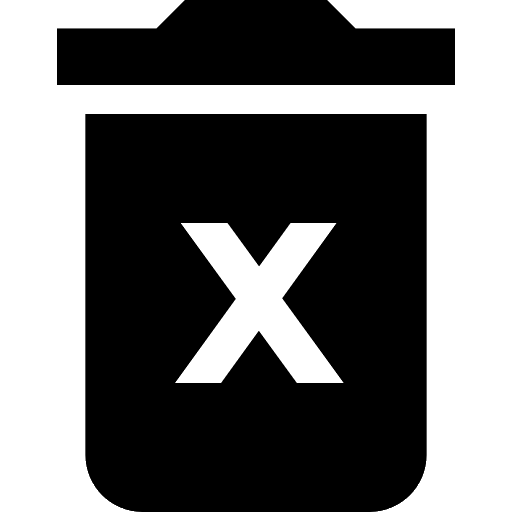
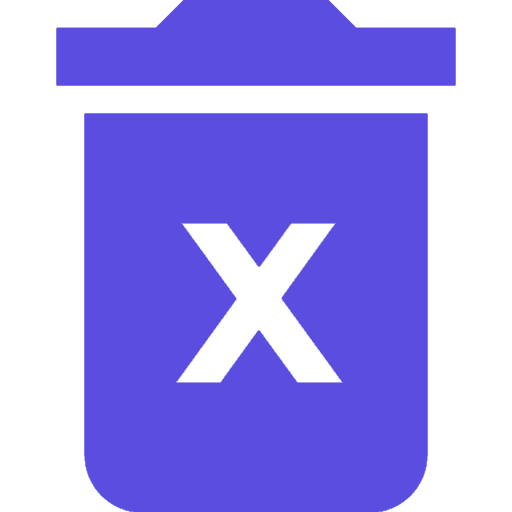
First changes

diff --git a/src/components/poke-search/PokeSearch.jsx b/src/components/poke-search/PokeSearch.jsx
@@ -3,6 +3,7 @@ import { useDispatch } from "react-redux";
 import { getPokemons } from "../../redux/asyncActions/pokemon/getPokemons";
 import { searchPokemons } from "../../redux/asyncActions/pokemon/searchPokemons";
 import lupa from '../../assets/lupa.png'
+import styles from './poke-search.module.css'
 
 const PokeSearch = ( ) => {
   const dispatch = useDispatch()
@@ -17,12 +18,12 @@ const PokeSearch = ( ) => {
   }
 
   return (
-    <div>
-      <div>
-        <img src={lupa} alt="icon" role={'icon'} width={25}/>
+    <div className={styles.container}>
+      <div >
+        <img  className={styles.image} src={lupa} alt="icon" role={'icon'}/>
       </div>
-      <div>
-        <input type="search" onKeyPress={handlePress} placeholder="Buscar" role={'input-search'} onChange={handleChange} value={search}/>
+      <div >
+        <input className={styles.search} type="search" onKeyPress={handlePress} placeholder="Buscar" role={'input-search'} onChange={handleChange} value={search}/>
       </div>
     </div>
   );

diff --git a/src/views/main-page/MainPage.jsx b/src/views/main-page/MainPage.jsx
@@ -6,6 +6,7 @@ import addIcon from '../../assets/add.png'
 import { useDispatch, useSelector } from 'react-redux'
 import { cleanPokemon, openForm,getPokemons } from '../../redux/features/pokemon/pokemonSlice'
 import PokeSearch from '../../components/poke-search/PokeSearch'
+import styles from './main-page.module.css'
 
 const MainPage = () => {
   const dispatch = useDispatch()
@@ -14,15 +15,15 @@ const MainPage = () => {
     pokemon ? dispatch(cleanPokemon()) : null
     !form ? dispatch(openForm()) : null
   }
-  return (<>
+  return (<div className={styles.container}>
     <h3>Listado de Pokemon</h3>
-    <div>
+    <div className={styles.topBar}>
     <PokeSearch/>
     <PrimaryButton text={'Nuevo'} icon={addIcon} cb={add}/>
     </div>
     <PokemonTable/>
     { form ? <PokeForm /> : null }
-  </>
+  </div>
   )
 }
 

diff --git a/src/components/primary-button/PrimaryButton.jsx b/src/components/primary-button/PrimaryButton.jsx
@@ -1,10 +1,11 @@
 import React from "react";
+import styles from './primary-button.module.css'
 
 const PrimaryButton = ({icon , text, cb, disable = false}, type = 'button') => {
   return (
-    <button onClick={cb} disabled={disable} type={type}>
-      <div><img src={icon} alt="icon" role={'button-icon'} width={15}/></div>
-      <div><span role={'button-text'}>{text}</span></div>
+    <button onClick={cb} disabled={disable} type={type} className={styles.container}>
+      <div className={styles.icon}><img src={icon} alt="icon" role={'button-icon'} width={15}/></div>
+      <div className={styles.text}><span role={'button-text'}>{text}</span></div>
     </button>
   )
 };

diff --git a/src/components/primary-button/primary-button.module.css b/src/components/primary-button/primary-button.module.css
@@ -1,0 +1,23 @@
+.container {
+    background-color: rgb(91, 77, 224);
+    border-radius: 5px;
+    border: none;
+    color: white;
+    font-weight: 700;
+    font-size: 0.9em;
+    display: flex;
+    align-items: center;
+    justify-content: space-around;
+    width: fit-content;
+    height: 40px;
+    max-width: 110px;
+}
+
+.icon{
+    margin-top: 3px;
+    padding: 5px;
+}
+
+.text {
+    padding: 10px;
+}

diff --git a/src/components/poke-search/poke-search.module.css b/src/components/poke-search/poke-search.module.css
@@ -1,0 +1,21 @@
+.container {
+    height: 40px;
+    width: fit-content;
+    border: 1px gray solid;
+    display: flex;
+    align-items: center;
+    border-radius: 3px;
+    background-color: white;
+}
+
+.image {
+    margin-top: 5px;
+    padding: 0 10px;
+    height: 20px;
+}
+
+.search {
+    border: none;
+    font-size: medium;
+    width: 175px;
+}

diff --git a/jest.config.js b/jest.config.js
@@ -4,6 +4,7 @@ const config = {
     setupFilesAfterEnv: ['<rootDir>/jest-setup.js'],
     moduleNameMapper: {
       "\\.(jpg|ico|jpeg|png|gif|eot|otf|webp|svg|ttf|woff|woff2|mp4|webm|wav|mp3|m4a|aac|oga)$": "<rootDir>/src/__mocks__/fileMock.js",
+      '^.+\\.(css|less)$': '<rootDir>/src/__mocks__/fileMock.js'
     }
   };
   

diff --git a/src/views/main-page/main-page.module.css b/src/views/main-page/main-page.module.css
@@ -1,0 +1,9 @@
+.topBar {
+    display: flex;
+    justify-content: space-between;
+}
+
+.container {
+    padding: 20px;
+    background-color: rgba(236, 227, 227, 0.911);
+}
